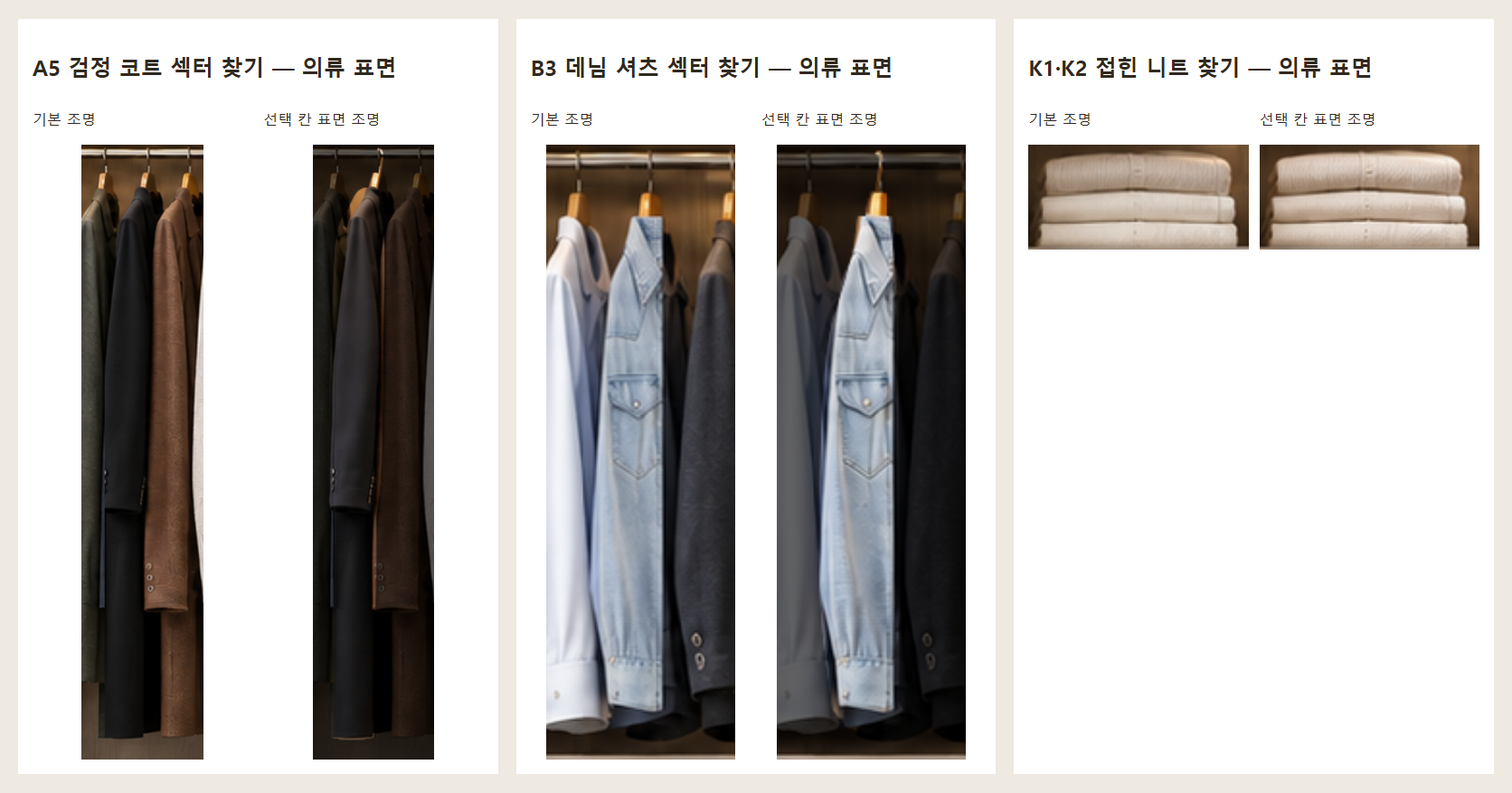
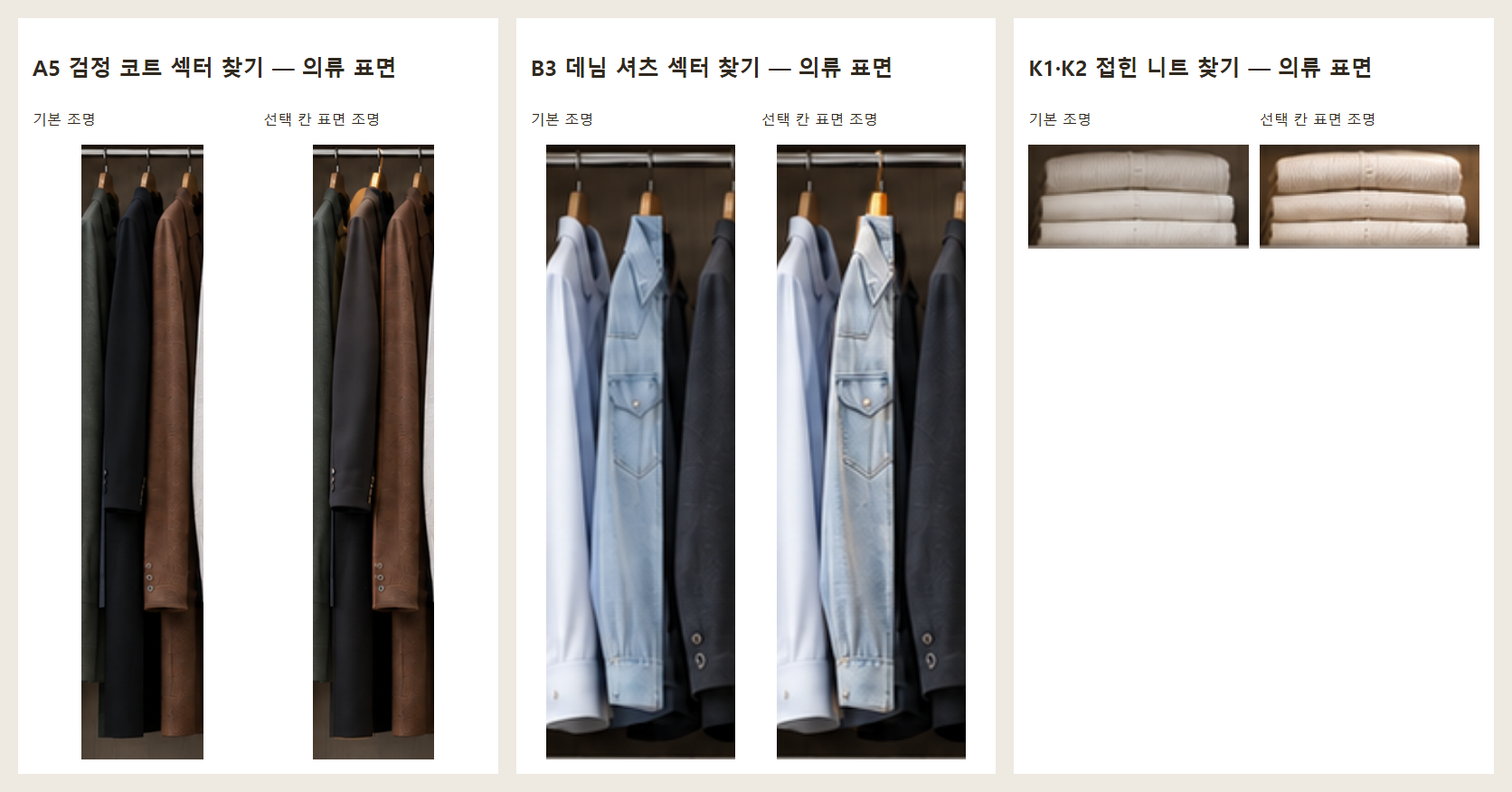
fix: replace lighting overlays with off and on scene assets

diff --git a/docs/handoff/SMART_WARDROBE_CODEX_HANDOFF_2026-10-11/reports/wardrobe-lighting-review-v1/review.html b/docs/handoff/SMART_WARDROBE_CODEX_HANDOFF_2026-10-11/reports/wardrobe-lighting-review-v1/review.html
@@ -11,11 +11,11 @@ body{margin:20px;font:16px/1.5 system-ui;background:#eee9e1;color:#30291f}h1{fon
 <nav aria-label="검수용 의류 선택">
 <button data-selection="" aria-pressed="true">기본 조명</button><button data-selection="A" aria-pressed="false">A5 코트 섹터 찾기</button><button data-selection="B" aria-pressed="false">B3 셔츠 섹터 찾기</button><button data-selection="E1" aria-pressed="false">K1·K2 접힌 니트 찾기</button><button data-selection="A,B,E1" aria-pressed="false">세 칸 함께 찾기</button><button id="unknown">위치 미확인</button>
 </nav>
-<div><label>비선택 칸 감광<input id="dim" type="range" min="0" max="0.6" step="0.02" value="0.60"><output id="dim-value">60%</output></label><label><input id="auto" type="checkbox">검수용 5초 자동 소등</label><label><input id="ui" type="checkbox" checked>실제 미러 UI 캡처 표시</label></div>
+<div><span>Lights OFF / selected asset ON</span><label><input id="auto" type="checkbox">검수용 5초 자동 소등</label><label><input id="ui" type="checkbox" checked>실제 미러 UI 캡처 표시</label></div>
 <p id="status" role="status">이미지 준비 중…</p>
 <div class="stage"><canvas id="scene" width="1672" height="941" aria-label="표면 조명 상태를 합성한 옷장"></canvas></div>
 <p><small>조명 검수 전용 합성입니다. 앱의 실시간 의류 찾기·백엔드 LED·하드웨어 연동 증적이 아닙니다. 중앙 UI도 기존 로컬 화면 캡처입니다. 5초는 검수용 타이머이며 제품 계약을 변경하지 않습니다.</small></p>
 <p><a href="lighting-closeups.png">의류 표면 확대 비교</a> · <a href="REVIEW.md">검수 보고서</a></p>
-<script>window.LIGHTING_REVIEW={"status":"HANGER_SILHOUETTE_APPROVED","six_garment_samples_approved":true,"base":"../wardrobe-visual-samples-v1/wardrobe-composite.png","mirror_ui":"../wardrobe-visual-samples-v1/app-before.png","width":1672,"height":941,"scope":"Review-only lighting prototype; no app, API, DB or hardware integration","dim_alpha":0.6,"relight_mix":0.8,"auto_off_ms":5000,"fade_ms":320,"compartments":[{"id":"A","bounds":[92,94,284,578]},{"id":"B","bounds":[402,94,286,339]},{"id":"C","bounds":[402,484,286,246]},{"id":"D","bounds":[92,742,284,105]},{"id":"E1","bounds":[990,66,282,86]},{"id":"E2","bounds":[990,179,282,88]},{"id":"E3","bounds":[990,288,282,96]},{"id":"E4","bounds":[990,405,282,98]},{"id":"F1","bounds":[1300,66,282,86]},{"id":"F2","bounds":[1300,179,282,88]},{"id":"F3","bounds":[1300,288,282,96]},{"id":"F4","bounds":[1300,405,282,98]},{"id":"F5","bounds":[1300,522,282,98]},{"id":"F6","bounds":[1300,638,282,85]},{"id":"F7","bounds":[1300,743,282,105]}],"variants":[{"id":"A","title":"A5 검정 코트 섹터 찾기","bounds":[92,145,284,519],"detail":[241,170,28,430],"target":"Relight INSIDE FIRST cabinet from left: seven long hanging coats between x92..376,y145..664. The selected black coat is fifth at x266. Brighten sleeve and lapel surface with nuanced textile highlights and softly shaded fold valleys; neighboring coats within same compartment receive gentle consistent fill. Keep the wood rails, top light recess, hanger hook row at y120, drawer below y675 and cabinet frames unchanged.","file":"A-relit-context.png","prompt":"Use case: lighting-weather precise relighting ONLY. Image1 is approved photorealistic wardrobe asset composition. Preserve EXACT 1672x941 framing, cabinet geometry, ALL garments' shape, angle, size, hangers, folds, spacing, perspective, exact camera and colors. No restyling, no new objects, no repositioning. Modify light exposure on the ONE specified compartment only. Soft concealed high-CRI warm-neutral diffuse light from above/front grazes actual fabric surfaces, making stitching, yarn, sleeve creases, lapel folds and contact shadows naturally readable. Light follows garment volume: ridges brighten but inner folds remain shaded. Subtle physical reflected light, NOT flat white overlay, NOT front-facing catalog garments. Never add a visible LED emitter point, glowing dot, halo, bloom, lens flare, rim-light outline, light beam or blown-out white hotspot. No new light at the upper rail. Background illumination of all other compartments, mirror, doors, frames and floor remains exactly as image1; do not dim the whole scene. This is a selected-slot surface-lighting reference: ambient dimming of other slots will be done separately in the native review. Target garment highlights moderately about one stop brighter, dark colors retain their identity, no washed-out fabrics. Relight INSIDE FIRST cabinet from left: seven long hanging coats between x92..376,y145..664. The selected black coat is fifth at x266. Brighten sleeve and lapel surface with nuanced textile highlights and softly shaded fold valleys; neighboring coats within same compartment receive gentle consistent fill. Keep the wood rails, top light recess, hanger hook row at y120, drawer below y675 and cabinet frames unchanged.","tool":"image_gen.imagegen","original_generated_path":"C:\Users\aicam\.codex\generated_images\01a11a04-161b-71c1-b091-cdb004c0a66c\exec-a9697de9-ab72-4110-8a14-f5bfa50e202e.png","sector_bounds":[224,120,54,516],"neighbor_bounds":[288,170,35,430],"review_bounds":[212,118,105,530],"cloth_path":"M 260 155 C 252 154 248 160 243 173 C 234 182 232 194 231 214 L 228 275 L 226 350 L 225 422 L 228 434 L 227 510 L 227 629 Q 245 633 265 629 L 266 538 L 267 438 Q 272 408 272 362 L 274 218 Q 274 190 270 174 L 269 163 Z","hanger_path":"M 264 142 L 271 143 L 268 157 L 260 156 Z","hook_path":"M 270 142 L 272 129 Q 272 122 269 122"},{"id":"B","title":"B3 데님 셔츠 섹터 찾기","bounds":[402,147,286,283],"detail":[496,170,27,225],"target":"Relight ONLY UPPER clothing compartment of SECOND cabinet from left: six short tops between x402..688,y147..430. Selected denim shirt is third at x517. Make its denim yoke seam, chest flap pocket, snaps and naturally folded sleeve surface more readable with soft grazing illumination. Other shirts in same compartment receive compatible diffuse fill. Do not light lower pants compartment, rail at y120, drawer or other cabinets.","file":"B-relit-context.png","prompt":"Use case: lighting-weather precise relighting ONLY. Image1 is approved photorealistic wardrobe asset composition. Preserve EXACT 1672x941 framing, cabinet geometry, ALL garments' shape, angle, size, hangers, folds, spacing, perspective, exact camera and colors. No restyling, no new objects, no repositioning. Modify light exposure on the ONE specified compartment only. Soft concealed high-CRI warm-neutral diffuse light from above/front grazes actual fabric surfaces, making stitching, yarn, sleeve creases, lapel folds and contact shadows naturally readable. Light follows garment volume: ridges brighten but inner folds remain shaded. Subtle physical reflected light, NOT flat white overlay, NOT front-facing catalog garments. Never add a visible LED emitter point, glowing dot, halo, bloom, lens flare, rim-light outline, light beam or blown-out white hotspot. No new light at the upper rail. Background illumination of all other compartments, mirror, doors, frames and floor remains exactly as image1; do not dim the whole scene. This is a selected-slot surface-lighting reference: ambient dimming of other slots will be done separately in the native review. Target garment highlights moderately about one stop brighter, dark colors retain their identity, no washed-out fabrics. Relight ONLY UPPER clothing compartment of SECOND cabinet from left: six short tops between x402..688,y147..430. Selected denim shirt is third at x517. Make its denim yoke seam, chest flap pocket, snaps and naturally folded sleeve surface more readable with soft grazing illumination. Other shirts in same compartment receive compatible diffuse fill. Do not light lower pants compartment, rail at y120, drawer or other cabinets.","tool":"image_gen.imagegen","original_generated_path":"C:\Users\aicam\.codex\generated_images\01a11a04-161b-71c1-b091-cdb004c0a66c\exec-7012b5cc-414f-426f-81a7-2193e3015b4e.png","sector_bounds":[484,120,52,309],"neighbor_bounds":[458,180,27,220],"review_bounds":[465,118,98,319],"cloth_path":"M 507 155 L 523 155 Q 526 176 527 192 L 528 250 L 529 336 L 528 407 L 533 415 Q 518 428 501 420 L 494 411 L 491 390 Q 486 354 487 310 L 488 271 Q 489 228 494 209 L 501 187 L 505 171 Z","hanger_path":"M 514 142 L 522 143 L 522 156 L 511 156 L 512 148 Z","hook_path":"M 517 142 L 519 129 Q 520 122 517 122"},{"id":"E1","title":"K1·K2 접힌 니트 찾기","bounds":[995,95,260,56],"detail":[1001,94,120,57],"target":"Relight ONLY the two three-layer FOLDED knit stacks on TOP shelf of cabinet immediately RIGHT of central mirror. Clothing area x995..1255,y95..151. Gentle diffuse light grazes sand knit curved fold ribs on left and navy knit on right, exposing yarn/fold contours while preserving narrow layered shadows. Keep EXACT 2 stacks x3 layers and original side perspective. Do not add visible ceiling emitters or light upper empty wood and other shelves.","file":"E1-relit-context.png","prompt":"Use case: lighting-weather precise relighting ONLY. Image1 is approved photorealistic wardrobe asset composition. Preserve EXACT 1672x941 framing, cabinet geometry, ALL garments' shape, angle, size, hangers, folds, spacing, perspective, exact camera and colors. No restyling, no new objects, no repositioning. Modify light exposure on the ONE specified compartment only. Soft concealed high-CRI warm-neutral diffuse light from above/front grazes actual fabric surfaces, making stitching, yarn, sleeve creases, lapel folds and contact shadows naturally readable. Light follows garment volume: ridges brighten but inner folds remain shaded. Subtle physical reflected light, NOT flat white overlay, NOT front-facing catalog garments. Never add a visible LED emitter point, glowing dot, halo, bloom, lens flare, rim-light outline, light beam or blown-out white hotspot. No new light at the upper rail. Background illumination of all other compartments, mirror, doors, frames and floor remains exactly as image1; do not dim the whole scene. This is a selected-slot surface-lighting reference: ambient dimming of other slots will be done separately in the native review. Target garment highlights moderately about one stop brighter, dark colors retain their identity, no washed-out fabrics. Relight ONLY the two three-layer FOLDED knit stacks on TOP shelf of cabinet immediately RIGHT of central mirror. Clothing area x995..1255,y95..151. Gentle diffuse light grazes sand knit curved fold ribs on left and navy knit on right, exposing yarn/fold contours while preserving narrow layered shadows. Keep EXACT 2 stacks x3 layers and original side perspective. Do not add visible ceiling emitters or light upper empty wood and other shelves.","tool":"image_gen.imagegen","original_generated_path":"C:\Users\aicam\.codex\generated_images\01a11a04-161b-71c1-b091-cdb004c0a66c\exec-d552a2e8-d13e-40e8-9b02-b6d0fbd4d9db.png"}],"approval_note":"2026-10-11 ??? ??: ?? ???? ?? ?? ?? ??, ??? ?? 60%."};</script>
+<script>window.LIGHTING_REVIEW={"status":"LIGHTS_OFF_ASSET_SWAP_REVIEW","six_garment_samples_approved":true,"base":"wardrobe-lights-off-v2.png","mirror_ui":"../wardrobe-visual-samples-v1/app-before.png","width":1672,"height":941,"scope":"Review-only lighting prototype; no app, API, DB or hardware integration","relight_mix":1,"auto_off_ms":5000,"fade_ms":320,"compartments":[{"id":"A","bounds":[92,94,284,578]},{"id":"B","bounds":[402,94,286,339]},{"id":"C","bounds":[402,484,286,246]},{"id":"D","bounds":[92,742,284,105]},{"id":"E1","bounds":[990,66,282,86]},{"id":"E2","bounds":[990,179,282,88]},{"id":"E3","bounds":[990,288,282,96]},{"id":"E4","bounds":[990,405,282,98]},{"id":"F1","bounds":[1300,66,282,86]},{"id":"F2","bounds":[1300,179,282,88]},{"id":"F3","bounds":[1300,288,282,96]},{"id":"F4","bounds":[1300,405,282,98]},{"id":"F5","bounds":[1300,522,282,98]},{"id":"F6","bounds":[1300,638,282,85]},{"id":"F7","bounds":[1300,743,282,105]}],"variants":[{"id":"A","title":"A5 검정 코트 섹터 찾기","bounds":[92,145,284,519],"detail":[241,170,28,430],"target":"Relight INSIDE FIRST cabinet from left: seven long hanging coats between x92..376,y145..664. The selected black coat is fifth at x266. Brighten sleeve and lapel surface with nuanced textile highlights and softly shaded fold valleys; neighboring coats within same compartment receive gentle consistent fill. Keep the wood rails, top light recess, hanger hook row at y120, drawer below y675 and cabinet frames unchanged.","file":"A-relit-context.png","prompt":"Use case: lighting-weather precise relighting ONLY. Image1 is approved photorealistic wardrobe asset composition. Preserve EXACT 1672x941 framing, cabinet geometry, ALL garments' shape, angle, size, hangers, folds, spacing, perspective, exact camera and colors. No restyling, no new objects, no repositioning. Modify light exposure on the ONE specified compartment only. Soft concealed high-CRI warm-neutral diffuse light from above/front grazes actual fabric surfaces, making stitching, yarn, sleeve creases, lapel folds and contact shadows naturally readable. Light follows garment volume: ridges brighten but inner folds remain shaded. Subtle physical reflected light, NOT flat white overlay, NOT front-facing catalog garments. Never add a visible LED emitter point, glowing dot, halo, bloom, lens flare, rim-light outline, light beam or blown-out white hotspot. No new light at the upper rail. Background illumination of all other compartments, mirror, doors, frames and floor remains exactly as image1; do not dim the whole scene. This is a selected-slot surface-lighting reference: ambient dimming of other slots will be done separately in the native review. Target garment highlights moderately about one stop brighter, dark colors retain their identity, no washed-out fabrics. Relight INSIDE FIRST cabinet from left: seven long hanging coats between x92..376,y145..664. The selected black coat is fifth at x266. Brighten sleeve and lapel surface with nuanced textile highlights and softly shaded fold valleys; neighboring coats within same compartment receive gentle consistent fill. Keep the wood rails, top light recess, hanger hook row at y120, drawer below y675 and cabinet frames unchanged.","tool":"image_gen.imagegen","original_generated_path":"C:\\Users\\aicam\\.codex\\generated_images\\01a11a04-161b-71c1-b091-cdb004c0a66c\\exec-a9697de9-ab72-4110-8a14-f5bfa50e202e.png","sector_bounds":[224,120,54,516],"neighbor_bounds":[288,170,35,430],"review_bounds":[212,118,105,530],"cloth_path":"M 260 155 C 252 154 248 160 243 173 C 234 182 232 194 231 214 L 228 275 L 226 350 L 225 422 L 228 434 L 227 510 L 227 629 Q 245 633 265 629 L 266 538 L 267 438 Q 272 408 272 362 L 274 218 Q 274 190 270 174 L 269 163 Z","hanger_path":"M 264 142 L 271 143 L 268 157 L 260 156 Z","hook_path":"M 270 142 L 272 129 Q 272 122 269 122"},{"id":"B","title":"B3 데님 셔츠 섹터 찾기","bounds":[402,147,286,283],"detail":[496,170,27,225],"target":"Relight ONLY UPPER clothing compartment of SECOND cabinet from left: six short tops between x402..688,y147..430. Selected denim shirt is third at x517. Make its denim yoke seam, chest flap pocket, snaps and naturally folded sleeve surface more readable with soft grazing illumination. Other shirts in same compartment receive compatible diffuse fill. Do not light lower pants compartment, rail at y120, drawer or other cabinets.","file":"B-relit-context.png","prompt":"Use case: lighting-weather precise relighting ONLY. Image1 is approved photorealistic wardrobe asset composition. Preserve EXACT 1672x941 framing, cabinet geometry, ALL garments' shape, angle, size, hangers, folds, spacing, perspective, exact camera and colors. No restyling, no new objects, no repositioning. Modify light exposure on the ONE specified compartment only. Soft concealed high-CRI warm-neutral diffuse light from above/front grazes actual fabric surfaces, making stitching, yarn, sleeve creases, lapel folds and contact shadows naturally readable. Light follows garment volume: ridges brighten but inner folds remain shaded. Subtle physical reflected light, NOT flat white overlay, NOT front-facing catalog garments. Never add a visible LED emitter point, glowing dot, halo, bloom, lens flare, rim-light outline, light beam or blown-out white hotspot. No new light at the upper rail. Background illumination of all other compartments, mirror, doors, frames and floor remains exactly as image1; do not dim the whole scene. This is a selected-slot surface-lighting reference: ambient dimming of other slots will be done separately in the native review. Target garment highlights moderately about one stop brighter, dark colors retain their identity, no washed-out fabrics. Relight ONLY UPPER clothing compartment of SECOND cabinet from left: six short tops between x402..688,y147..430. Selected denim shirt is third at x517. Make its denim yoke seam, chest flap pocket, snaps and naturally folded sleeve surface more readable with soft grazing illumination. Other shirts in same compartment receive compatible diffuse fill. Do not light lower pants compartment, rail at y120, drawer or other cabinets.","tool":"image_gen.imagegen","original_generated_path":"C:\\Users\\aicam\\.codex\\generated_images\\01a11a04-161b-71c1-b091-cdb004c0a66c\\exec-7012b5cc-414f-426f-81a7-2193e3015b4e.png","sector_bounds":[484,120,52,309],"neighbor_bounds":[458,180,27,220],"review_bounds":[465,118,98,319],"cloth_path":"M 507 155 L 523 155 Q 526 176 527 192 L 528 250 L 529 336 L 528 407 L 533 415 Q 518 428 501 420 L 494 411 L 491 390 Q 486 354 487 310 L 488 271 Q 489 228 494 209 L 501 187 L 505 171 Z","hanger_path":"M 514 142 L 522 143 L 522 156 L 511 156 L 512 148 Z","hook_path":"M 517 142 L 519 129 Q 520 122 517 122"},{"id":"E1","title":"K1·K2 접힌 니트 찾기","bounds":[995,95,260,56],"detail":[1001,94,120,57],"target":"Relight ONLY the two three-layer FOLDED knit stacks on TOP shelf of cabinet immediately RIGHT of central mirror. Clothing area x995..1255,y95..151. Gentle diffuse light grazes sand knit curved fold ribs on left and navy knit on right, exposing yarn/fold contours while preserving narrow layered shadows. Keep EXACT 2 stacks x3 layers and original side perspective. Do not add visible ceiling emitters or light upper empty wood and other shelves.","file":"E1-relit-context.png","prompt":"Use case: lighting-weather precise relighting ONLY. Image1 is approved photorealistic wardrobe asset composition. Preserve EXACT 1672x941 framing, cabinet geometry, ALL garments' shape, angle, size, hangers, folds, spacing, perspective, exact camera and colors. No restyling, no new objects, no repositioning. Modify light exposure on the ONE specified compartment only. Soft concealed high-CRI warm-neutral diffuse light from above/front grazes actual fabric surfaces, making stitching, yarn, sleeve creases, lapel folds and contact shadows naturally readable. Light follows garment volume: ridges brighten but inner folds remain shaded. Subtle physical reflected light, NOT flat white overlay, NOT front-facing catalog garments. Never add a visible LED emitter point, glowing dot, halo, bloom, lens flare, rim-light outline, light beam or blown-out white hotspot. No new light at the upper rail. Background illumination of all other compartments, mirror, doors, frames and floor remains exactly as image1; do not dim the whole scene. This is a selected-slot surface-lighting reference: ambient dimming of other slots will be done separately in the native review. Target garment highlights moderately about one stop brighter, dark colors retain their identity, no washed-out fabrics. Relight ONLY the two three-layer FOLDED knit stacks on TOP shelf of cabinet immediately RIGHT of central mirror. Clothing area x995..1255,y95..151. Gentle diffuse light grazes sand knit curved fold ribs on left and navy knit on right, exposing yarn/fold contours while preserving narrow layered shadows. Keep EXACT 2 stacks x3 layers and original side perspective. Do not add visible ceiling emitters or light upper empty wood and other shelves.","tool":"image_gen.imagegen","original_generated_path":"C:\\Users\\aicam\\.codex\\generated_images\\01a11a04-161b-71c1-b091-cdb004c0a66c\\exec-d552a2e8-d13e-40e8-9b02-b6d0fbd4d9db.png"}],"approval_note":"?? ??? ??: ?? ??? ??, ?? ?? ???? ?? ?? ?? ?? ??.","render_mode":"off-base-with-selected-on-asset"};</script>
 <script src="review.js"></script>
 </html>

diff --git a/docs/handoff/SMART_WARDROBE_CODEX_HANDOFF_2026-10-11/reports/wardrobe-lighting-review-v1/review.js b/docs/handoff/SMART_WARDROBE_CODEX_HANDOFF_2026-10-11/reports/wardrobe-lighting-review-v1/review.js
@@ -2,7 +2,7 @@
 (() => {
  const spec=window.LIGHTING_REVIEW;
  const scene=document.querySelector('#scene'),ctx=scene.getContext('2d');
- const status=document.querySelector('#status'),dim=document.querySelector('#dim');
+ const status=document.querySelector('#status');
  const auto=document.querySelector('#auto'),ui=document.querySelector('#ui');
  const reduced=matchMedia('(prefers-reduced-motion: reduce)').matches;
  const images={},weights=Object.fromEntries(spec.variants.map(v=>[v.id,0]));
@@ -21,7 +21,7 @@
   y.addColorStop(0,'transparent');y.addColorStop(fy,'white');y.addColorStop(1-fy,'white');y.addColorStop(1,'transparent');
   g.fillStyle=y;g.fillRect(0,0,w,h);return c;
  }
- const dimLayers={},restoreLayers={},silhouetteLayers={};
+ const silhouetteLayers={};
  function silhouette(variant){
   const c=create(),g=c.getContext('2d');
   g.fillStyle='#fff';g.fill(new Path2D(variant.cloth_path));
@@ -31,11 +31,6 @@
   return c;
  }
  function makeLayers(){
-  for(const part of spec.compartments){
-   const [x,y,w,h]=part.bounds,c=create(),g=c.getContext('2d');
-   g.fillStyle='#000';g.fillRect(x,y,w,h);
-   g.globalCompositeOperation='destination-in';g.drawImage(mask(w,h),x,y);dimLayers[part.id]=c;
-  }
   for(const variant of spec.variants){
    const [x,y,w,h]=variant.sector_bounds || variant.bounds,c=create(),g=c.getContext('2d');
    const shape=variant.cloth_path?silhouette(variant):null;
@@ -44,30 +39,16 @@
    if(shape){g.drawImage(shape,0,0);silhouetteLayers[variant.id]=shape}
    else g.drawImage(mask(w,h,6),x,y);
    images[variant.id+'-layer']=c;
-   if(variant.sector_bounds){
-    const restore=create(),r=restore.getContext('2d');
-    r.drawImage(base,0,0);
-    r.globalCompositeOperation='destination-in';
-    if(shape)r.drawImage(shape,0,0);else r.drawImage(mask(w,h,3),x,y);
-    restoreLayers[variant.id]=restore;
-   }
   }
  }
  function draw(){
   ctx.clearRect(0,0,1672,941);ctx.drawImage(base,0,0);
-  for(const part of spec.compartments){
-   const narrow=!!spec.variants.find(v=>v.id===part.id)?.sector_bounds;
-   const amount=Number(dim.value)*activity*(1-(narrow?0:(weights[part.id]||0)));
-   if(amount>0){ctx.globalAlpha=amount;ctx.drawImage(dimLayers[part.id],0,0)}
-  }
   for(const v of spec.variants){
-   if(restoreLayers[v.id]){ctx.globalAlpha=weights[v.id];ctx.drawImage(restoreLayers[v.id],0,0)}
    ctx.globalAlpha=spec.relight_mix*weights[v.id];ctx.drawImage(images[v.id+'-layer'],0,0);
   }
   ctx.globalAlpha=1;
   if(ui.checked)ctx.drawImage(mirror,712,22,255,832,712,22,255,832);
   window.lightingState={selected:[...selected],weights:{...weights},activity,reason:lastReason,settled:raf===0,autoArmed:!!timer};
-  document.querySelector('#dim-value').textContent=Math.round(Number(dim.value)*100)+'%';
  }
  function settle(ids,reason){
   clearTimeout(timer);timer=0;cancelAnimationFrame(raf);raf=0;
@@ -93,7 +74,7 @@
   makeLayers();draw();status.textContent='기본 조명 · 의류 찾기를 선택하세요';
   document.querySelectorAll('button[data-selection]').forEach(b=>b.onclick=()=>settle(b.dataset.selection?b.dataset.selection.split(','):[],b.textContent.trim()));
   document.querySelector('#unknown').onclick=()=>settle([],'위치 미확인 — 임의 칸을 점등하지 않음');
-  dim.oninput=draw;ui.onchange=draw;
+  ui.onchange=draw;
   auto.onchange=()=>settle(selected,auto.checked?'선택 유지 · 검수용 5초 자동 소등':'선택 유지 · 자동 소등 해제');
   window.lightingReady=true;
   window.lightingSilhouetteData=Object.fromEntries(Object.entries(silhouetteLayers).map(([id,c])=>[id,c.toDataURL('image/png')]));

diff --git a/docs/handoff/SMART_WARDROBE_CODEX_HANDOFF_2026-10-11/reports/wardrobe-lighting-review-v1/verify_integrity.py b/docs/handoff/SMART_WARDROBE_CODEX_HANDOFF_2026-10-11/reports/wardrobe-lighting-review-v1/verify_integrity.py
@@ -1,111 +1,25 @@
-"""Read-only PNG comparisons, not an image editor or visual quality score."""
-import hashlib
-import json
+import json, hashlib
 from pathlib import Path
-
 from PIL import Image
-
-HERE = Path(__file__).resolve().parent
-spec = json.loads((HERE / "lighting.json").read_text(encoding="utf-8"))
-base_path = (HERE / spec["base"]).resolve()
-base = Image.open(base_path).convert("RGB")
-assert base.size == (spec["width"], spec["height"])
-assert Image.open(HERE / "baseline.png").convert("RGB").tobytes() == base.tobytes()
-for name in ("auto-off.png", "unknown-location.png"):
-    assert Image.open(HERE / name).convert("RGB").tobytes() == base.tobytes()
-
-
-def brightness(image, bounds):
-    x, y, width, height = bounds
-    pixels = image.load()
-    values = [
-        0.2126 * pixels[i, j][0]
-        + 0.7152 * pixels[i, j][1]
-        + 0.0722 * pixels[i, j][2]
-        for j in range(y, y + height)
-        for i in range(x, x + width)
-    ]
-    return round(sum(values) / len(values), 4)
-
-
-def contains(bounds, x, y):
-    bx, by, width, height = bounds
-    return bx <= x < bx + width and by <= y < by + height
-
-
-checks = []
-for variant in spec["variants"]:
-    selected = Image.open(HERE / (variant["id"] + "-selected.png")).convert("RGB")
-    assert selected.size == base.size
-    before = brightness(base, variant["detail"])
-    after = brightness(selected, variant["detail"])
-    assert after > before, f"{variant['id']} surface did not brighten"
-    neighbor = None
-    if "sector_bounds" in variant:
-        neighbor_before = brightness(base, variant["neighbor_bounds"])
-        neighbor_after = brightness(selected, variant["neighbor_bounds"])
-        assert neighbor_after < neighbor_before, "Same-rail neighbor was illuminated"
-        silhouette = Image.open(HERE / (variant["id"] + "-silhouette-mask.png")).convert("RGBA")
-        alpha = silhouette.getchannel("A").load()
-        sector_part = next(p for p in spec["compartments"] if p["id"] == variant["id"])
-        px, py, pw, ph = sector_part["bounds"]
-        bp, sp = base.load(), selected.load()
-        bright_outside_sector = sum(
-            sum(sp[x, y]) > sum(bp[x, y])
-            for y in range(py, py + ph)
-            for x in range(px, px + pw)
-            if alpha[x, y] == 0
-        )
-        assert bright_outside_sector == 0, "Brightened outside garment/hanger silhouette"
-        hanger_probe = (264, 146, 3, 8) if variant["id"] == "A" else (515, 146, 4, 8)
-        hanger_before = brightness(base, hanger_probe)
-        hanger_after = brightness(selected, hanger_probe)
-        assert hanger_after > hanger_before, "Selected hanger did not brighten"
-        neighbor = {
-            "same_rail_neighbor_luminance_before": neighbor_before,
-            "same_rail_neighbor_luminance_after": neighbor_after,
-            "brightened_pixels_outside_selected_sector": bright_outside_sector,
-            "mask_type": "cloth silhouette + wooden hanger + metal hook",
-            "hanger_luminance_before": hanger_before,
-            "hanger_luminance_after": hanger_after,
-        }
-    dimmed = []
-    for part in spec["compartments"]:
-        if part["id"] != variant["id"]:
-            mean_before = brightness(base, part["bounds"])
-            mean_after = brightness(selected, part["bounds"])
-            assert mean_after < mean_before, f"{part['id']} did not dim"
-            dimmed.append(part["id"])
-    a, b = base.load(), selected.load()
-    outside = sum(
-        a[x, y] != b[x, y]
-        for y in range(base.height)
-        for x in range(base.width)
-        if not any(contains(part["bounds"], x, y) for part in spec["compartments"])
-    )
-    assert outside == 0, "Changed cabinet frame, mirror, floor or outside compartment"
-    checks.append(
-        {
-            "selected": variant["id"],
-            "cloth_mean_luminance_before": before,
-            "cloth_mean_luminance_after": after,
-            "hanger_sector_check": neighbor,
-            "unselected_compartments_dimmed": dimmed,
-            "outside_compartments_changed_pixels": outside,
-        }
-    )
-result = {
-    "status": "PASS",
-    "approved_base_sha256": hashlib.sha256(base_path.read_bytes()).hexdigest(),
-    "checks": checks,
-    "auto_off_and_unknown_restore_approved_base_exactly": True,
-    "generated_sha256": {
-        v["id"]: hashlib.sha256((HERE / v["file"]).read_bytes()).hexdigest()
-        for v in spec["variants"]
-    },
-    "limitation": "Mean PNG luminance checks only, not lux, physical fabric fidelity, product-level E2E, or user visual approval.",
-}
-(HERE / "integrity.json").write_text(
-    json.dumps(result, ensure_ascii=False, indent=2) + "\n", encoding="utf-8"
-)
-print(json.dumps(result, ensure_ascii=False))
+p=Path(__file__).resolve().parent
+s=json.loads((p/'lighting.json').read_text(encoding='utf-8'))
+b=Image.open(p/s['base']).convert('RGB')
+for name in ['baseline.png','auto-off.png','unknown-location.png']:
+ assert Image.open(p/name).convert('RGB').tobytes()==b.tobytes(), name
+checks=[]
+for v in s['variants']:
+ a=Image.open(p/(v['id']+'-selected.png')).convert('RGB')
+ mask=Image.open(p/(v['id']+'-silhouette-mask.png')).convert('RGBA') if v.get('cloth_path') else None
+ bounds=v.get('sector_bounds',v['bounds']); x,y,w,h=bounds
+ changed=outside=0
+ for py in range(b.height):
+  for px in range(b.width):
+   if a.getpixel((px,py))!=b.getpixel((px,py)):
+    changed+=1
+    allowed=mask.getpixel((px,py))[3]>0 if mask else x<=px<x+w and y<=py<y+h
+    if not allowed: outside+=1
+ assert changed>0 and outside==0, (v['id'],changed,outside)
+ checks.append(dict(selected=v['id'],changed_pixels=changed,outside_selected_mask=outside))
+result=dict(status='PASS',render_mode=s['render_mode'],checks=checks,off_base_sha256=hashlib.sha256((p/s['base']).read_bytes()).hexdigest(),auto_off_and_unknown_restore_off_base_exactly=True,limitation='Image replacement checks, not hardware verification or exact geometry guarantee.')
+(p/'integrity.json').write_text(json.dumps(result,indent=2)+'\n',encoding='utf-8')
+print(json.dumps(result))

diff --git a/docs/handoff/SMART_WARDROBE_CODEX_HANDOFF_2026-10-11/reports/wardrobe-lighting-review-v1/verify_overlay_v1_legacy.py b/docs/handoff/SMART_WARDROBE_CODEX_HANDOFF_2026-10-11/reports/wardrobe-lighting-review-v1/verify_overlay_v1_legacy.py
@@ -1,0 +1,111 @@
+"""Read-only PNG comparisons, not an image editor or visual quality score."""
+import hashlib
+import json
+from pathlib import Path
+
+from PIL import Image
+
+HERE = Path(__file__).resolve().parent
+spec = json.loads((HERE / "lighting.json").read_text(encoding="utf-8"))
+base_path = (HERE / spec["base"]).resolve()
+base = Image.open(base_path).convert("RGB")
+assert base.size == (spec["width"], spec["height"])
+assert Image.open(HERE / "baseline.png").convert("RGB").tobytes() == base.tobytes()
+for name in ("auto-off.png", "unknown-location.png"):
+    assert Image.open(HERE / name).convert("RGB").tobytes() == base.tobytes()
+
+
+def brightness(image, bounds):
+    x, y, width, height = bounds
+    pixels = image.load()
+    values = [
+        0.2126 * pixels[i, j][0]
+        + 0.7152 * pixels[i, j][1]
+        + 0.0722 * pixels[i, j][2]
+        for j in range(y, y + height)
+        for i in range(x, x + width)
+    ]
+    return round(sum(values) / len(values), 4)
+
+
+def contains(bounds, x, y):
+    bx, by, width, height = bounds
+    return bx <= x < bx + width and by <= y < by + height
+
+
+checks = []
+for variant in spec["variants"]:
+    selected = Image.open(HERE / (variant["id"] + "-selected.png")).convert("RGB")
+    assert selected.size == base.size
+    before = brightness(base, variant["detail"])
+    after = brightness(selected, variant["detail"])
+    assert after > before, f"{variant['id']} surface did not brighten"
+    neighbor = None
+    if "sector_bounds" in variant:
+        neighbor_before = brightness(base, variant["neighbor_bounds"])
+        neighbor_after = brightness(selected, variant["neighbor_bounds"])
+        assert neighbor_after < neighbor_before, "Same-rail neighbor was illuminated"
+        silhouette = Image.open(HERE / (variant["id"] + "-silhouette-mask.png")).convert("RGBA")
+        alpha = silhouette.getchannel("A").load()
+        sector_part = next(p for p in spec["compartments"] if p["id"] == variant["id"])
+        px, py, pw, ph = sector_part["bounds"]
+        bp, sp = base.load(), selected.load()
+        bright_outside_sector = sum(
+            sum(sp[x, y]) > sum(bp[x, y])
+            for y in range(py, py + ph)
+            for x in range(px, px + pw)
+            if alpha[x, y] == 0
+        )
+        assert bright_outside_sector == 0, "Brightened outside garment/hanger silhouette"
+        hanger_probe = (264, 146, 3, 8) if variant["id"] == "A" else (515, 146, 4, 8)
+        hanger_before = brightness(base, hanger_probe)
+        hanger_after = brightness(selected, hanger_probe)
+        assert hanger_after > hanger_before, "Selected hanger did not brighten"
+        neighbor = {
+            "same_rail_neighbor_luminance_before": neighbor_before,
+            "same_rail_neighbor_luminance_after": neighbor_after,
+            "brightened_pixels_outside_selected_sector": bright_outside_sector,
+            "mask_type": "cloth silhouette + wooden hanger + metal hook",
+            "hanger_luminance_before": hanger_before,
+            "hanger_luminance_after": hanger_after,
+        }
+    dimmed = []
+    for part in spec["compartments"]:
+        if part["id"] != variant["id"]:
+            mean_before = brightness(base, part["bounds"])
+            mean_after = brightness(selected, part["bounds"])
+            assert mean_after < mean_before, f"{part['id']} did not dim"
+            dimmed.append(part["id"])
+    a, b = base.load(), selected.load()
+    outside = sum(
+        a[x, y] != b[x, y]
+        for y in range(base.height)
+        for x in range(base.width)
+        if not any(contains(part["bounds"], x, y) for part in spec["compartments"])
+    )
+    assert outside == 0, "Changed cabinet frame, mirror, floor or outside compartment"
+    checks.append(
+        {
+            "selected": variant["id"],
+            "cloth_mean_luminance_before": before,
+            "cloth_mean_luminance_after": after,
+            "hanger_sector_check": neighbor,
+            "unselected_compartments_dimmed": dimmed,
+            "outside_compartments_changed_pixels": outside,
+        }
+    )
+result = {
+    "status": "PASS",
+    "approved_base_sha256": hashlib.sha256(base_path.read_bytes()).hexdigest(),
+    "checks": checks,
+    "auto_off_and_unknown_restore_approved_base_exactly": True,
+    "generated_sha256": {
+        v["id"]: hashlib.sha256((HERE / v["file"]).read_bytes()).hexdigest()
+        for v in spec["variants"]
+    },
+    "limitation": "Mean PNG luminance checks only, not lux, physical fabric fidelity, product-level E2E, or user visual approval.",
+}
+(HERE / "integrity.json").write_text(
+    json.dumps(result, ensure_ascii=False, indent=2) + "\n", encoding="utf-8"
+)
+print(json.dumps(result, ensure_ascii=False))

diff --git a/docs/handoff/SMART_WARDROBE_CODEX_HANDOFF_2026-10-11/reports/wardrobe-lighting-review-v1/REVIEW.md b/docs/handoff/SMART_WARDROBE_CODEX_HANDOFF_2026-10-11/reports/wardrobe-lighting-review-v1/REVIEW.md
@@ -39,3 +39,7 @@ node docs/handoff/SMART_WARDROBE_CODEX_HANDOFF_2026-10-11/reports/wardrobe-light
 ```
 
 현재 상태: **옷걸이·의류 윤곽 조명 수정본 검수 대기**. 사각형 섹터가 맞지 않는다는 사용자 피드백에 따라 옷걸이를 포함한 윤곽 마스크로 교체했다. 새 상품·조명 이미지를 생성하지 않고 기존 조명 참고 이미지와 네이티브 벡터 마스크를 사용했다. 검수 승인 후 나머지 파생 에셋 생성과 기존 계약에 따른 앱·DB 연결 단계로 진행한다. 이번 변경은 보고서·검수 코드·증적에 한정하며 제품 코드·환경설정·DB·운영 저장소·원격 push·배포를 변경하지 않았다.
+
+
+## Superseding update: OFF / ON assets
+The above 60% overlay description is historical and superseded. Current implementation uses a generated OFF base and selected ON assets without black overlays. See ASSET_SWAP_V2.md.

diff --git a/docs/handoff/SMART_WARDROBE_CODEX_HANDOFF_2026-10-11/reports/REMEDIATION_CHECKPOINT.md b/docs/handoff/SMART_WARDROBE_CODEX_HANDOFF_2026-10-11/reports/REMEDIATION_CHECKPOINT.md
@@ -77,3 +77,7 @@ GET /integration/demo-profiles 및 기존 POST /integration/demo-login의 선택
 ## 2026-10-11 ?? ?? ? ??? ?? 60%
 
 ???? ?????? ?? ??? ????. ??? ?? ??? 34%?? 60%? ????. ??/?? ?? ???? ?????. ?? ??? ??? ?? ??? ?? ??? ??? ??? ?? ?? ? ???? DB ????. ?? push?????? DB ??? ???? ???.
+
+
+## Lights OFF / ON asset replacement
+Latest instruction replaces the 60% overlay implementation: generated wardrobe-lights-off-v2.png, existing selected relit assets, no black layers. Review code switched; app/DB rollout pending.

diff --git a/docs/handoff/SMART_WARDROBE_CODEX_HANDOFF_2026-10-11/reports/wardrobe-lighting-review-v1/STATUS.md b/docs/handoff/SMART_WARDROBE_CODEX_HANDOFF_2026-10-11/reports/wardrobe-lighting-review-v1/STATUS.md
@@ -1,5 +1,3 @@
-# ?? ?? ?? ??
+# OFF / ON asset replacement
 
-2026-10-11 ??? ?? ??. ??? ?????? ????? ??? ??? ??? ??? 60% ????(?? ??? ? 40% ??). ?? ????? ?? ? ?? ??? ????.
-
-??? ??? `lighting.json`? `review.js`?. ?? 6?? ?? ?? ???? ?????? ??? ?? ? ???? DB ??? ?? ?? ???. ?? ?? ??? ?? ??DB ?? ??? ???? ???.
+Latest user instruction supersedes overlay dimming. Generated OFF base + selected ON asset, no black overlay. Browser interactions passed. Review-only, app/DB rollout pending. See ASSET_SWAP_V2.md.

diff --git a/docs/handoff/SMART_WARDROBE_CODEX_HANDOFF_2026-10-11/reports/wardrobe-lighting-review-v1/ASSET_SWAP_V2.md b/docs/handoff/SMART_WARDROBE_CODEX_HANDOFF_2026-10-11/reports/wardrobe-lighting-review-v1/ASSET_SWAP_V2.md
@@ -1,0 +1,3 @@
+# Lights OFF / ON asset replacement
+
+Supersedes the 60% black overlay. The generated OFF base retains room ambient light. Existing A/B/E1 ON assets replace only selected garment/hanger silhouettes or the approved shelf mask at full opacity. No black dim layers. 320ms transitions blend images only. Unknown location and auto-off restore the OFF base. Review-only; app/DB integration remains pending. Generated geometry is visually inspected, not pixel-exact guaranteed.
